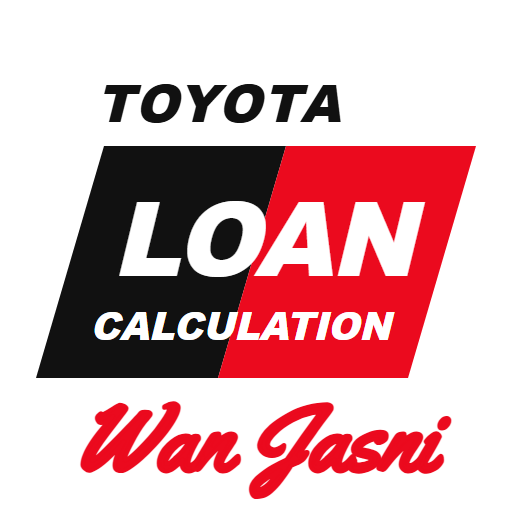
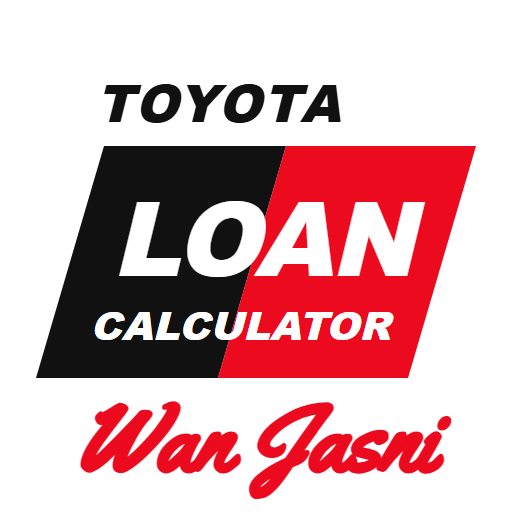
Ikon & nama pendek: Toyota Loan Calculator

Changed region(s): [[0.1875, 0.5938, 0.7812, 0.6875]]

diff --git a/assets/icon-src.html b/assets/icon-src.html
@@ -16,7 +16,7 @@
   <polygon points="36,378 104,146 286,146 218,378" fill="#111"/>
   <polygon points="218,378 286,146 476,146 408,378" fill="#eb0a1e"/>
   <text x="262" y="276" text-anchor="middle" font-family="Arial Black, Arial, sans-serif" font-weight="900" font-style="italic" font-size="104" fill="#fff" letter-spacing="-2" textLength="300" lengthAdjust="spacingAndGlyphs">LOAN</text>
-  <text x="240" y="340" text-anchor="middle" font-family="Arial Black, Arial, sans-serif" font-weight="900" font-style="italic" font-size="38" fill="#fff" textLength="300" lengthAdjust="spacingAndGlyphs">CALCULATION</text>
+  <text x="240" y="340" text-anchor="middle" font-family="Arial Black, Arial, sans-serif" font-weight="900" font-style="italic" font-size="38" fill="#fff" textLength="300" lengthAdjust="spacingAndGlyphs">CALCULATOR</text>
   <!-- WAN JASNI -->
   <!-- Fon berus: Yellowtail (Google Fonts, OFL) — paling hampir dengan Monster Clubhouse; ditebalkan dengan stroke -->
   <text x="256" y="470" text-anchor="middle" font-family="'Monster Clubhouse', 'Yellowtail', cursive" font-size="92" fill="#eb0a1e" stroke="#eb0a1e" stroke-width="4" stroke-linejoin="round">Wan Jasni</text>

diff --git a/index.html b/index.html
@@ -5,9 +5,9 @@
 <meta name="viewport" content="width=device-width, initial-scale=1, viewport-fit=cover">
 <title>Toyota Loan Calculator</title>
 <meta name="theme-color" content="#0b1b3a">
-<link rel="manifest" href="manifest.json?v=7">
-<link rel="icon" type="image/png" href="assets/icon-192.png?v=7">
-<link rel="apple-touch-icon" href="assets/icon-192.png?v=7">
+<link rel="manifest" href="manifest.json?v=8">
+<link rel="icon" type="image/png" href="assets/icon-192.png?v=8">
+<link rel="apple-touch-icon" href="assets/icon-192.png?v=8">
 <link rel="preconnect" href="https://fonts.googleapis.com">
 <link href="https://fonts.googleapis.com/css2?family=Plus+Jakarta+Sans:wght@400;600;700;800&display=swap" rel="stylesheet">
 <link rel="stylesheet" href="style.css?v=13">
